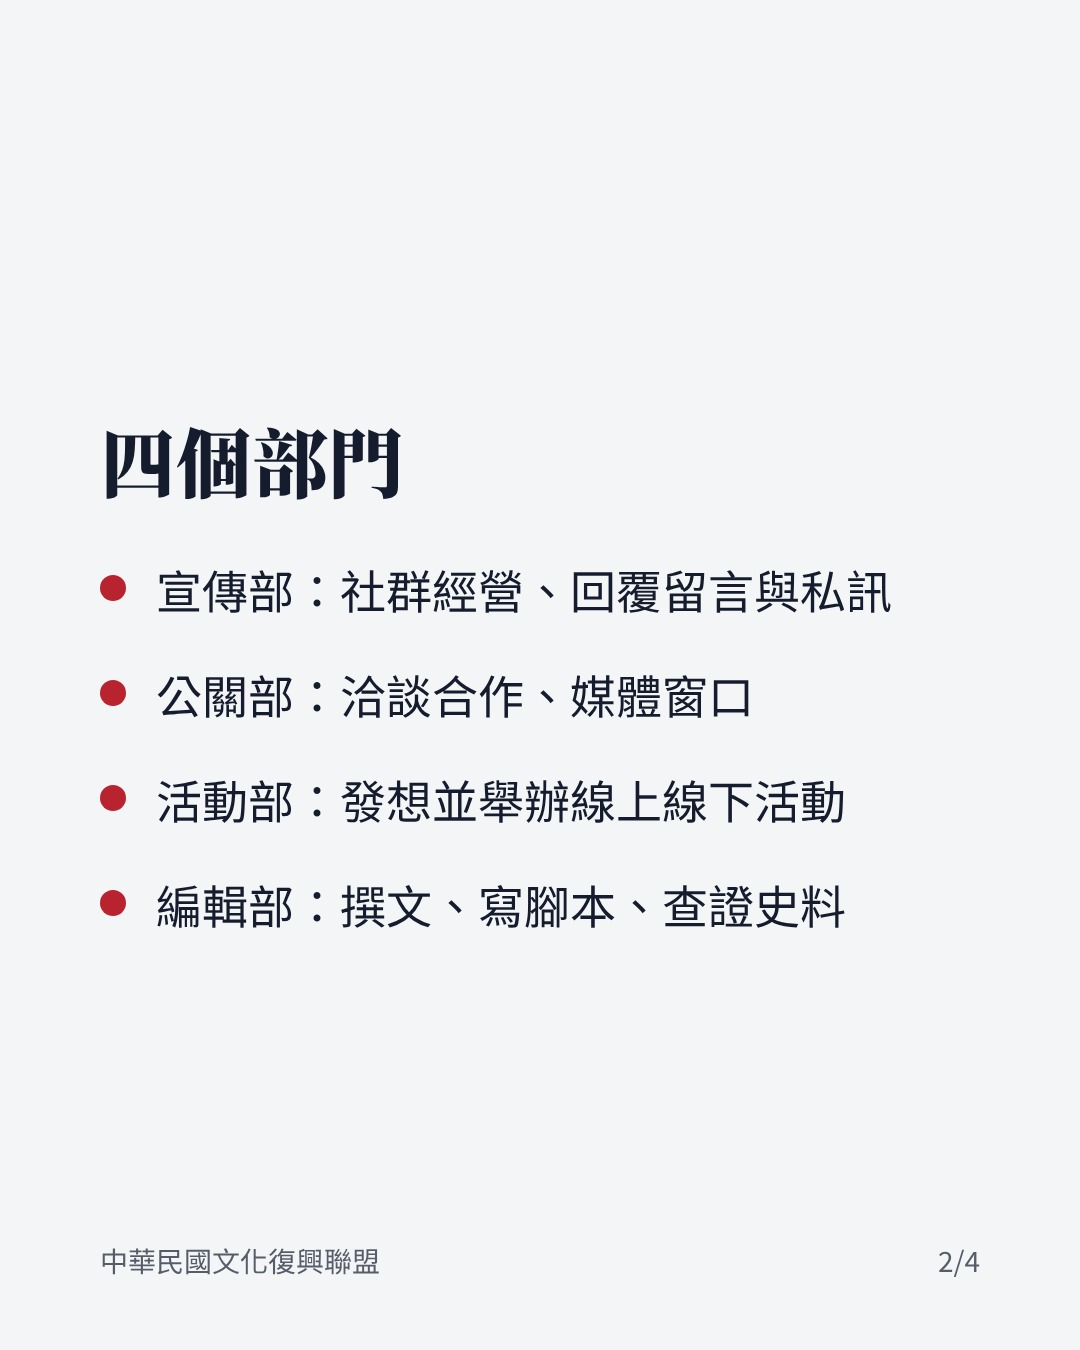
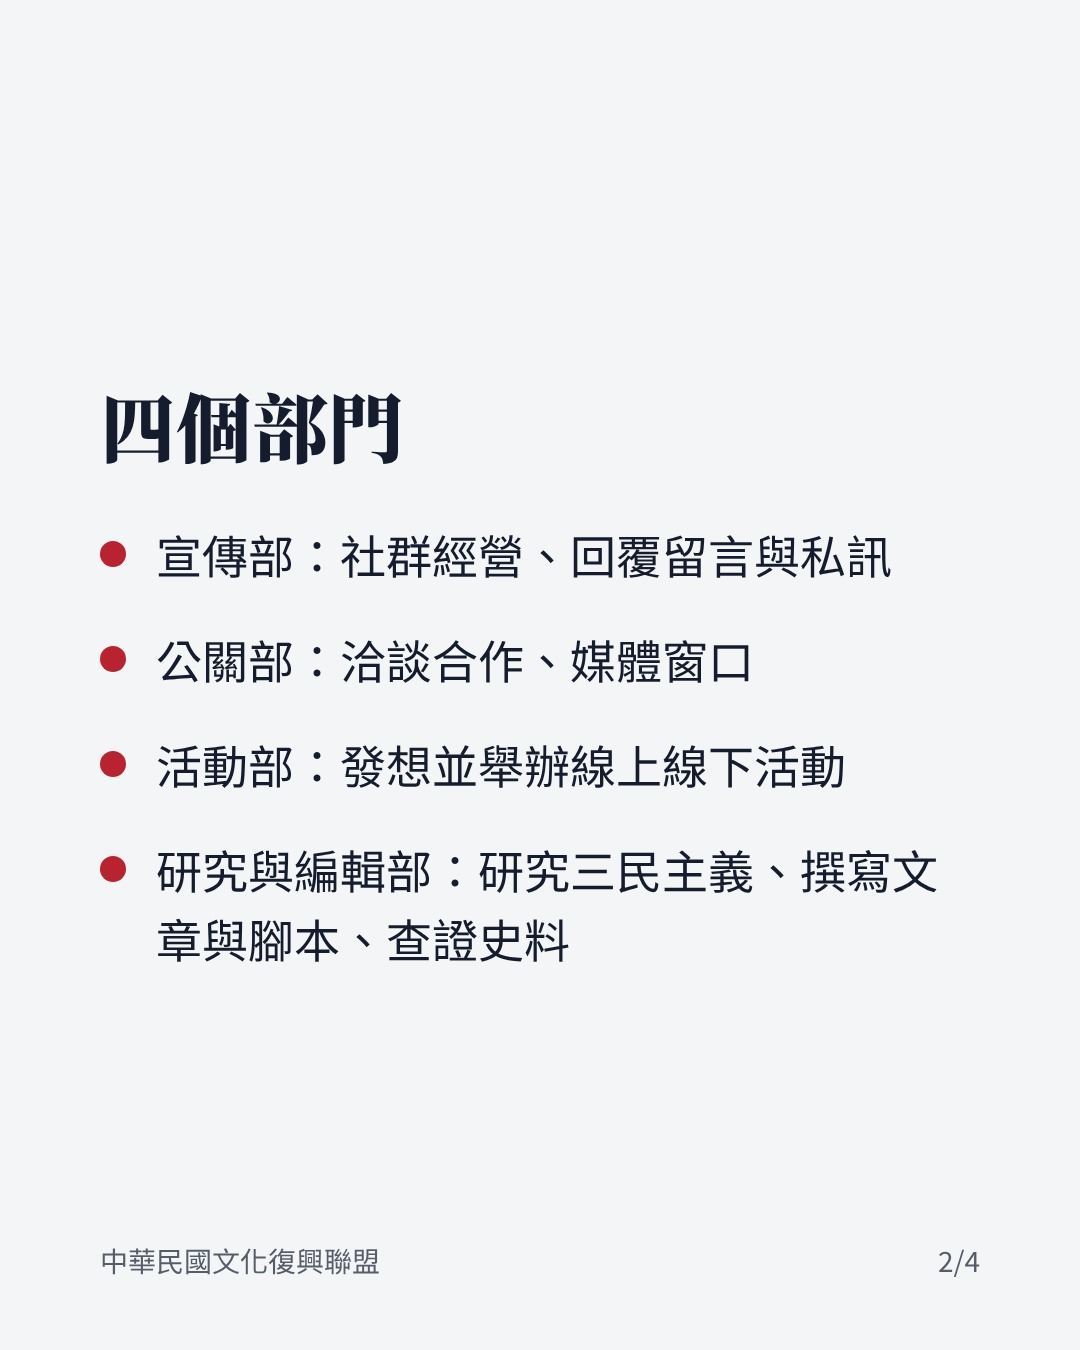
招募貼文部門名稱改為研究與編輯部
Claude-Session: https://claude.ai/code/session_01TexqmyAAmVL75pyU1EWzVc

Changed region(s): [[0.0917, 0.28, 0.8556, 0.7156], [0.0917, 0.4044, 0.1222, 0.5289]]

diff --git a/docs/index.html b/docs/index.html
@@ -187,7 +187,7 @@ a{color:var(--plum)}
 <li><strong>宣傳部</strong>：社群經營、回覆留言與私訊。</li>
 <li><strong>公關部</strong>：洽談合作、擔任媒體窗口。</li>
 <li><strong>活動部</strong>：發想並舉辦線上、線下活動。</li>
-<li><strong>編輯部</strong>：撰寫文章與影片腳本、查證史料。</li>
+<li><strong>研究與編輯部</strong>：研究三民主義，撰寫相關文章與腳本、查證史料。</li>
 </ul>
 
 <h2>我們在找這樣的你</h2>

diff --git a/content.py b/content.py
@@ -217,7 +217,7 @@ ARTICLES = [
 <li><strong>宣傳部</strong>：社群經營、回覆留言與私訊。</li>
 <li><strong>公關部</strong>：洽談合作、擔任媒體窗口。</li>
 <li><strong>活動部</strong>：發想並舉辦線上、線下活動。</li>
-<li><strong>編輯部</strong>：撰寫文章與影片腳本、查證史料。</li>
+<li><strong>研究與編輯部</strong>：研究三民主義，撰寫相關文章與腳本、查證史料。</li>
 </ul>
 
 <h2>我們在找這樣的你</h2>
@@ -232,7 +232,7 @@ ARTICLES = [
 """,
         "ig_slides": [
             {"kind": "cover", "kicker": "夥伴招募", "head": "中華民國\n文化復興聯盟\n開放招募", "sub": "一起來做點事"},
-            {"kind": "list", "head": "四個部門", "items": ["宣傳部：社群經營、回覆留言與私訊", "公關部：洽談合作、媒體窗口", "活動部：發想並舉辦線上線下活動", "編輯部：撰文、寫腳本、查證史料"]},
+            {"kind": "list", "head": "四個部門", "items": ["宣傳部：社群經營、回覆留言與私訊", "公關部：洽談合作、媒體窗口", "活動部：發想並舉辦線上線下活動", "研究與編輯部：研究三民主義、撰寫文章與腳本、查證史料"]},
             {"kind": "list", "head": "我們在找這樣的你", "items": ["認同中華民國，願意捍衛自由民主", "會寫、會剪、會設計、會企劃，或只是有熱情", "每週能投入 2 小時以上", "學生、社會人士、退休族都歡迎"]},
             {"kind": "text", "head": "怎麼加入", "body": "點個人檔案連結，\n在網站「加入我們」填寫表單，\n大約 5 分鐘。\n\n真實姓名只由本部保管，\n對外可使用化名。\n\n我們會在三週內以 Email 回覆你。"},
         ],
@@ -242,7 +242,7 @@ ARTICLES = [
 ・宣傳部：社群經營、回覆留言與私訊
 ・公關部：洽談合作、媒體窗口
 ・活動部：發想並舉辦線上、線下活動
-・編輯部：撰寫文章與腳本、查證史料
+・研究與編輯部：研究三民主義，撰寫相關文章與腳本、查證史料
 
 會寫作、剪片、設計、企劃，或只是想為中華民國做點事，都歡迎加入。每週能投入 2 小時以上即可，學生、社會人士、退休族都歡迎。
 
@@ -257,7 +257,7 @@ ARTICLES = [
 ・宣傳部：社群經營、回覆留言與私訊
 ・公關部：洽談合作、媒體窗口
 ・活動部：發想並舉辦線上、線下活動
-・編輯部：撰寫文章與腳本、查證史料
+・研究與編輯部：研究三民主義，撰寫相關文章與腳本、查證史料
 
 會寫、會剪、會設計、會企劃，或只是想為中華民國做點事，都歡迎。每週 2 小時以上即可。
 

diff --git a/posts/04-join-us.md b/posts/04-join-us.md
@@ -10,7 +10,7 @@
 3. docs/ig/04-join-us-3.jpg
 4. docs/ig/04-join-us-4.jpg
 
-貼文說明（294 字，上限 2,200）：
+貼文說明（306 字，上限 2,200）：
 
 ```
 聯盟成立兩天，收到許多朋友來訊表達參與和協助的意願，讓我們十分感動。今天正式開放招募！
@@ -19,7 +19,7 @@
 ・宣傳部：社群經營、回覆留言與私訊
 ・公關部：洽談合作、媒體窗口
 ・活動部：發想並舉辦線上、線下活動
-・編輯部：撰寫文章與腳本、查證史料
+・研究與編輯部：研究三民主義，撰寫相關文章與腳本、查證史料
 
 會寫作、剪片、設計、企劃，或只是想為中華民國做點事，都歡迎加入。每週能投入 2 小時以上即可，學生、社會人士、退休族都歡迎。
 
@@ -32,7 +32,7 @@
 
 ## Threads
 
-（316 字，上限 500）
+（328 字，上限 500）
 
 ```
 中華民國文化復興聯盟開放招募了！
@@ -41,7 +41,7 @@
 ・宣傳部：社群經營、回覆留言與私訊
 ・公關部：洽談合作、媒體窗口
 ・活動部：發想並舉辦線上、線下活動
-・編輯部：撰寫文章與腳本、查證史料
+・研究與編輯部：研究三民主義，撰寫相關文章與腳本、查證史料
 
 會寫、會剪、會設計、會企劃，或只是想為中華民國做點事，都歡迎。每週 2 小時以上即可。
 
